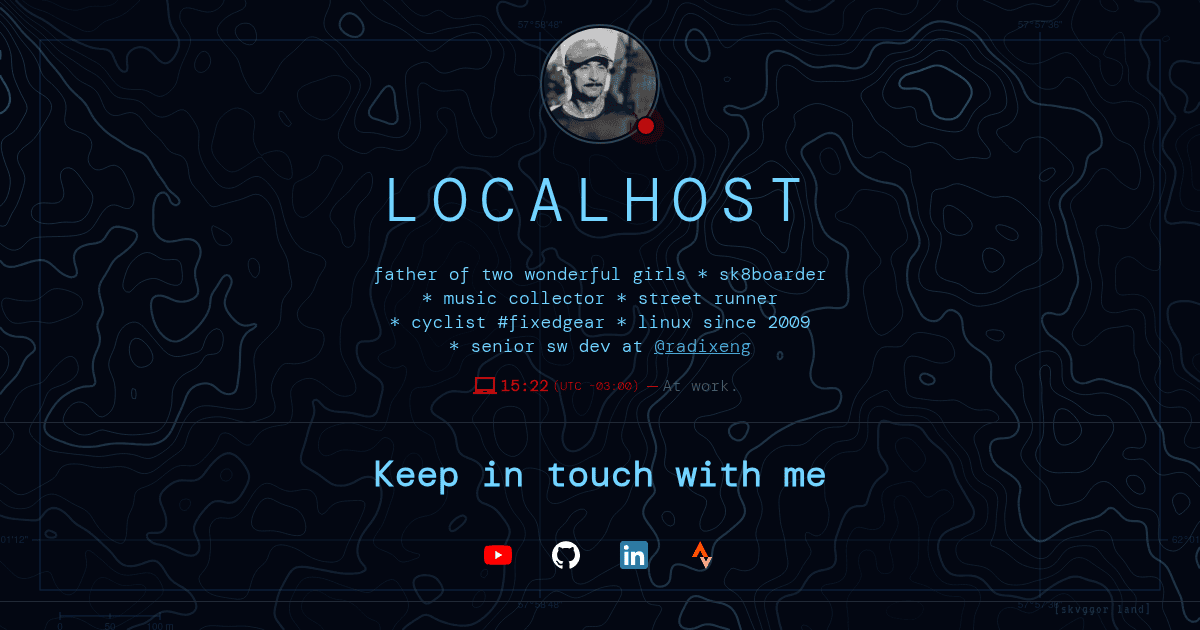
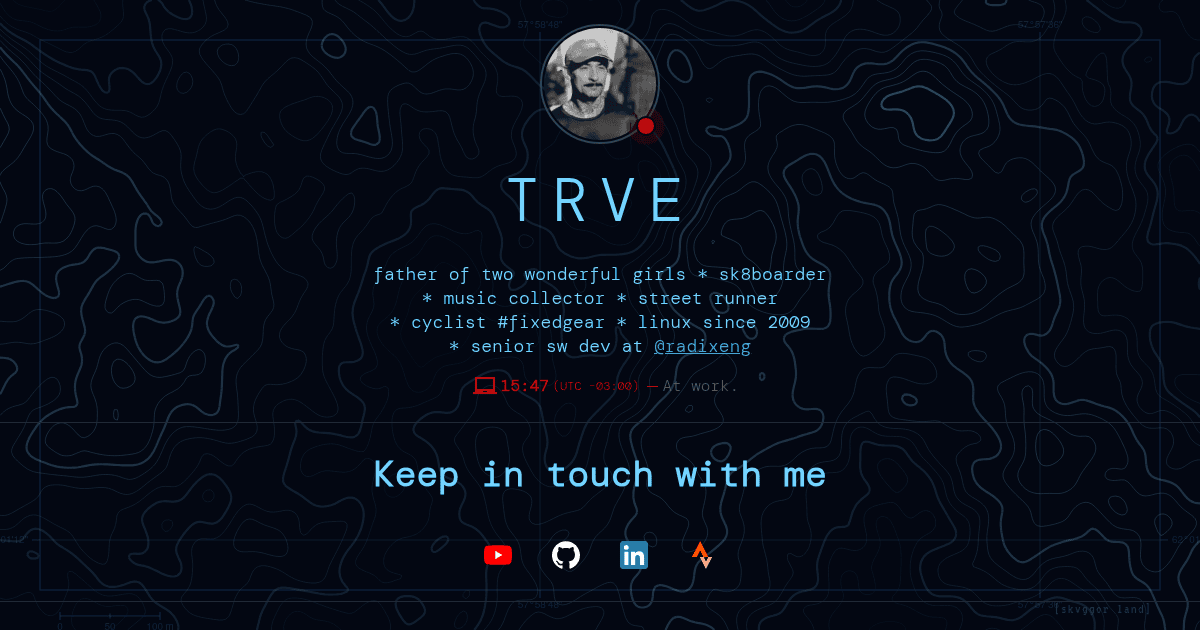
Add SITE_DOMAIN parameter for screenshot generation

diff --git a/components/header/header.tsx b/components/header/header.tsx
@@ -36,7 +36,7 @@ export default async function Header() {
 
   const headersData = await headers();
   const host = headersData.get("host") || "skvggor";
-  const _domain = host.split(":")[0].split(".")[0];
+  const _domain = process.env.SITE_DOMAIN || host.split(":")[0].split(".")[0];
 
   const headerContent: IHeaderContent = {
     title: _domain,

diff --git a/README.md b/README.md
@@ -127,6 +127,12 @@ To update screenshots:
 npm run update-screenshot
 ```
 
+To customize the domain name shown in the header:
+
+```bash
+SITE_DOMAIN=trve npm run update-screenshot
+```
+
 This runs a Docker container with Puppeteer that captures and compresses the images. Requires Docker.
 
 ## Project Structure
